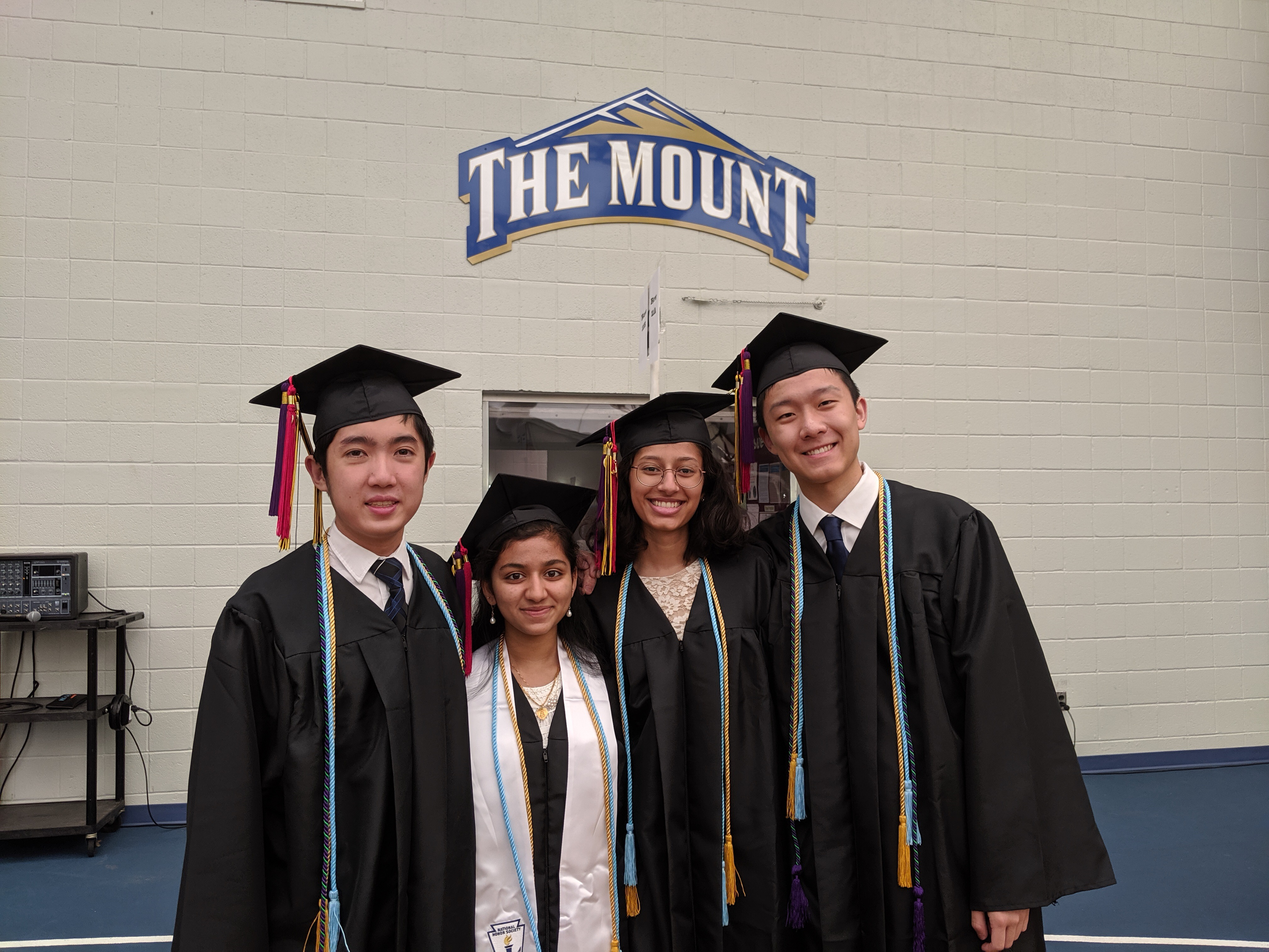
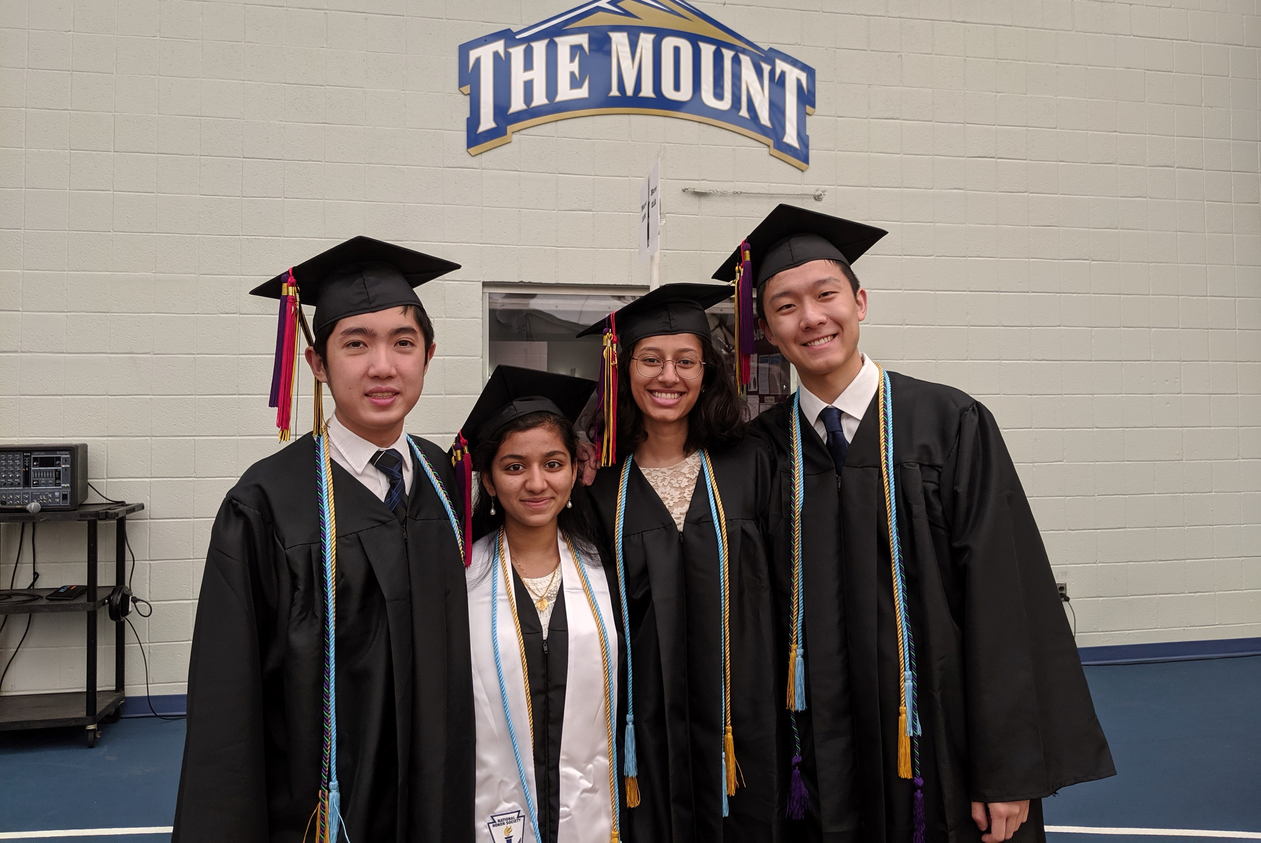
colors + image resizing

diff --git a/about.html b/about.html
@@ -22,16 +22,16 @@
             filter: brightness(50%);
         }
         .img1 { background-image: url("images/nac.jpg");}
-        .img2 { background-image: url("images/outreach.JPG"); }
+        .img2 { background-image: url("images/grad.JPG"); }
         .img3 { background-image: url("images/wvpic.jpg"); }
-        .img4 { background-image: url("images/halliwells.JPG"); }
+        .img4 { background-image: url("images/worlds.JPG"); }
         .img5 { background-image: url("images/wv2.JPG"); }
         .img6 { background-image: url("images/divya.JPG"); }
 
         .bg-h1 {
             color: white;
             font-weight: bold;
-            font-size: 60px;
+            font-size: 80px;
             position: fixed;
             top: 15%;
             left: 50%;
@@ -44,7 +44,7 @@
         
         .bg-p {
             color: white;
-            font-size: 100%;
+            font-size: 20px;
             border: 10px;
             position: fixed;
             top: 50%;

diff --git a/style/style.css b/style/style.css
@@ -150,7 +150,7 @@ p{
 
 /* DROPDOWN MENU */
 .dropbtn {
-    background-color: white;
+    background-color: transparent;
     position: relative;
     color: black;
     padding: 5px;
@@ -183,8 +183,8 @@ p{
     text-decoration: none;
     display: block;
   }
-  .about{
-      color:white;
+  .about:hover .dropbtn{
+      color: white;
   }
   .dropdown-content a:hover {background-color: #f1f1f1}
   
